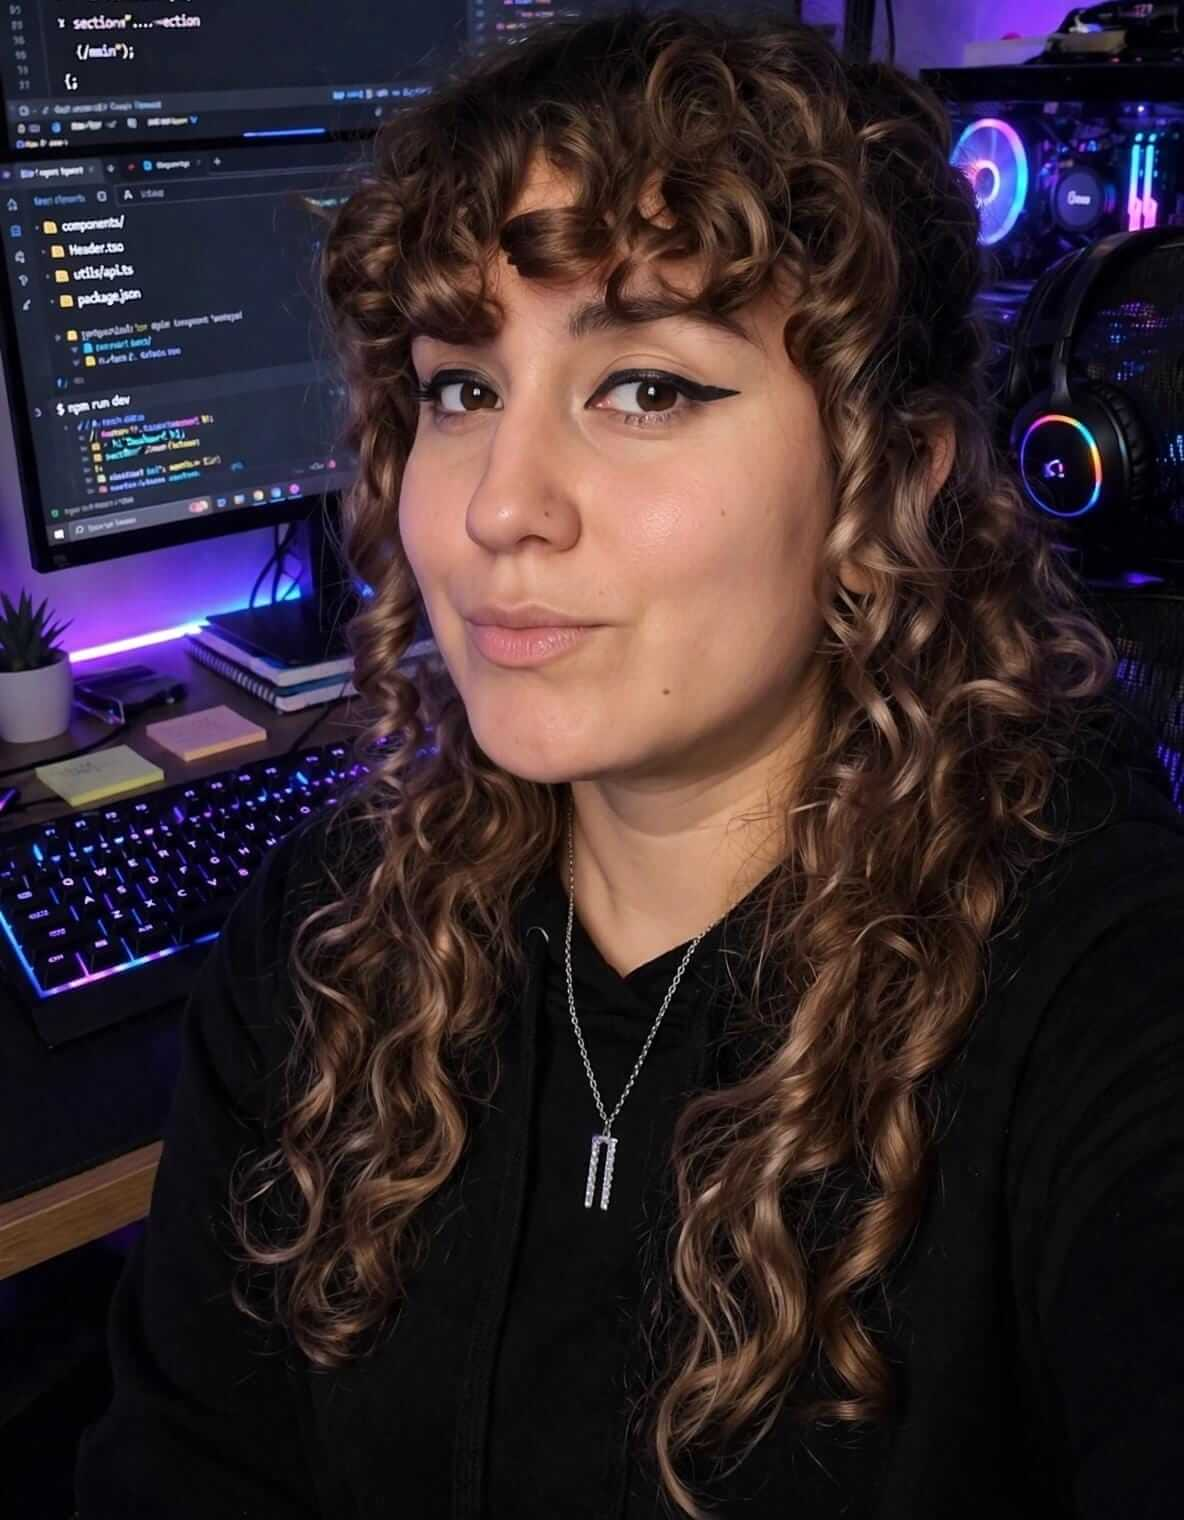
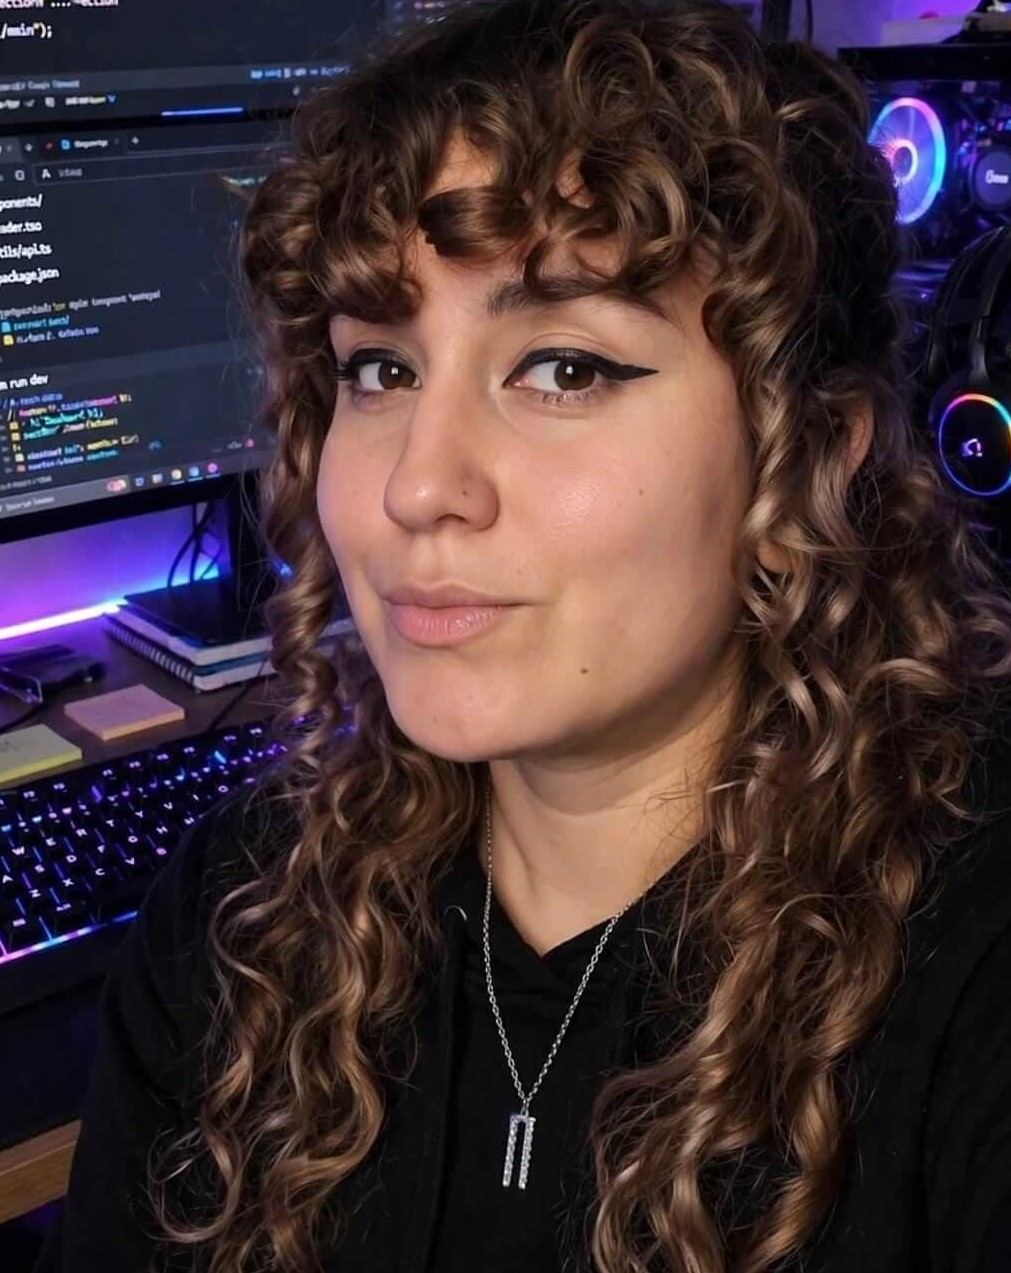
diseño responsivo

diff --git a/Estilos/index.css b/Estilos/index.css
@@ -49,21 +49,13 @@ body {
 }
 .header {
   display: grid;
-  grid-template-columns: 1fr 1fr;
+  grid-template-columns: 2fr 1fr;
   grid-template-areas:
     "nombre FOTO"
     "oficio FOTO"
     "INFO FOTO"
     "nav FOTO";
-  box-sizing: border-box;
-}
-.FOTO {
-  max-width: 387px;
-  width: 100%;
-  height: auto;
-  grid-area: FOTO;
-  margin-top: 40px;
-  margin-left: 20px;
+  column-gap: 20px;
 }
 .nombre {
   grid-area: nombre;
@@ -78,6 +70,7 @@ body {
   -webkit-text-fill-color: transparent;
   background-clip: text;
   color: transparent;
+  margin-top: 0;
 }
 .oficio {
   grid-area: oficio;
@@ -87,6 +80,12 @@ body {
   opacity: 0.5;
   margin-bottom: 30px;
 }
+.FOTO {
+  grid-area: FOTO;
+  max-width: 100%;
+  justify-self: end;
+  align-self: start;
+}
 .INFO {
   grid-area: INFO;
   font-size: 18px;
@@ -94,7 +93,7 @@ body {
   line-height: 1.5;
   display: flex;
   margin-bottom: 30px;
-  width: 793px;
+  width: 100%;
 }
 .nav {
   grid-area: nav;
@@ -124,6 +123,9 @@ body {
 .nav-links a:hover {
   color: #d8673a; /*revisar cada uno al hcaer clic*/
 }
+.nav-links-list {
+  flex-shrink: 0;
+}
 main {
   margin-bottom: 100px;
 }
@@ -138,9 +140,11 @@ h4 {
   margin-top: 54px;
   margin-bottom: 103px;
 }
+.Tools img {
+  margin: 0 auto;
+}
 .box-proyects {
   max-width: 2000px;
-  height: 680px;
   display: flex;
   gap: 20px;
 }
@@ -150,7 +154,6 @@ h4 {
   flex: 1;
   display: flex;
   flex-direction: column;
-  height: 100%;
 }
 .box__image-container {
   position: relative;
@@ -251,4 +254,103 @@ footer {
 .social-media__link:hover .social-media__icon {
   transform: translateY(-4px) scale(1.1);
   box-shadow: 0 0 18px rgba(170, 131, 233, 0.6);
+}
+@media screen and (max-width: 768px) {
+  body {
+    padding: 40px;
+    padding-bottom: 102px;
+  }
+  .nombre {
+    font-size: 58px;
+    margin-top: 0;
+  }
+  .FOTO {
+    height: auto;
+  }
+  .Tools {
+    margin-top: 40px;
+    margin-bottom: 80px;
+  }
+
+  .box-proyects {
+    display: flex;
+    flex-direction: column;
+  }
+  .box_one,
+  .box_two {
+    width: 100%;
+  }
+}
+@media screen and (max-width: 320px) {
+  body {
+    padding: 20px;
+    padding-bottom: 91px;
+  }
+  .header {
+    grid-template-columns: 1fr;
+    grid-template-areas:
+      "FOTO"
+      "nombre"
+      "oficio"
+      "INFO"
+      "nav";
+    row-gap: 20px;
+  }
+  .nombre {
+    font-size: 36px;
+  }
+  .oficio {
+    font-size: 16px;
+  }
+  .INFO {
+    font-size: 16px;
+  }
+  .nav-links {
+    display: flex;
+    flex-direction: column;
+  }
+  h3,
+  h4 {
+    font-size: 28px;
+  }
+  .Tools {
+    margin-top: 30px;
+    margin-bottom: 59.8px;
+    display: grid;
+    grid-template-columns: repeat(4, 1fr);
+    gap: 30px;
+  }
+  .Tools img {
+    width: 30px;
+    height: auto;
+  }
+  .card__content {
+    padding: 20px;
+  }
+  .card__title {
+    font-size: 20px;
+  }
+  .card__description {
+    font-size: 16px;
+    margin-top: 10px;
+    margin-bottom: 20px;
+  }
+  .icon-mini {
+    width: 20px;
+    height: 20px;
+  }
+  .contacto {
+    font-size: 28px;
+  }
+  .social-media {
+    gap: 40px;
+  }
+
+  .social-media__link {
+    padding: 0;
+  }
+  .social-media__icon {
+    width: 24px;
+    border-radius: 0;
+  }
 }

diff --git a/index.html b/index.html
@@ -4,7 +4,7 @@
     <meta charset="UTF-8" />
     <meta name="viewport" content="width=device-width, initial-scale=1.0" />
     <title>Proyecto del sprint 4: Portafolio</title>
-    <link rel="stylesheet" href="./Estilos/" />
+    <link rel="stylesheet" href="./Estilos/normalize.css" />
     <link rel="icon" type="image/x-icon" href="favicon.ico" />
     <link rel="stylesheet" href="./Estilos/index.css" />
   </head>
@@ -31,23 +31,44 @@
       </p>
       <nav class="nav">
         <ul class="nav-links">
-          <li><a href="#">Descargar CV</a></li>
-          <li><a href="#">Enlace a GitHub</a></li>
-          <li><a href="#">Hablemos</a></li>
+          <li class="nav-links-list"><a href="#">Descargar CV</a></li>
+          <li class="nav-links-list"><a href="#">Enlace a GitHub</a></li>
+          <li class="nav-links-list"><a href="#">Hablemos</a></li>
         </ul>
       </nav>
     </header>
     <main class="main">
       <h3>Habilidades y herramientas</h3>
       <div class="Tools">
-        <img src="./Imágenes/tools/HTML.png" alt="logo del código HTML" />
-        <img src="./Imágenes/tools/CSS.png" alt="logo del código css" />
-        <img src="./Imágenes/tools/JAVA.svg" alt="logo del código JavaScript" />
-        <img src="./Imágenes/tools/GIT.png" alt="logo del código Git" />
-        <img src="./Imágenes/tools/GIT HUB.png" alt="logo del código  GitHub" />
+        <img
+          src="./Imágenes/tools/HTML.png"
+          alt="logo del código HTML"
+          class="Tools img"
+        />
+        <img
+          src="./Imágenes/tools/CSS.png"
+          alt="logo del código css"
+          class="Tools img"
+        />
+        <img
+          src="./Imágenes/tools/JAVA.svg"
+          alt="logo del código JavaScript"
+          class="Tools img"
+        />
+        <img
+          src="./Imágenes/tools/GIT.png"
+          alt="logo del código Git"
+          class="Tools img"
+        />
+        <img
+          src="./Imágenes/tools/GIT HUB.png"
+          alt="logo del código  GitHub"
+          class="Tools img"
+        />
         <img
           src="./Imágenes/tools/CHAT GPT.png"
           alt="logo del código ChatGPT"
+          class="Tools img"
         />
       </div>
       <section class="proyectos">
